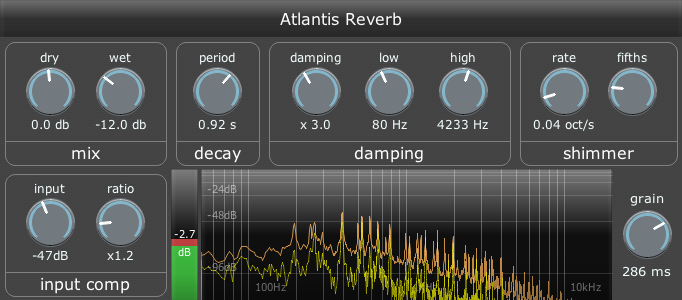
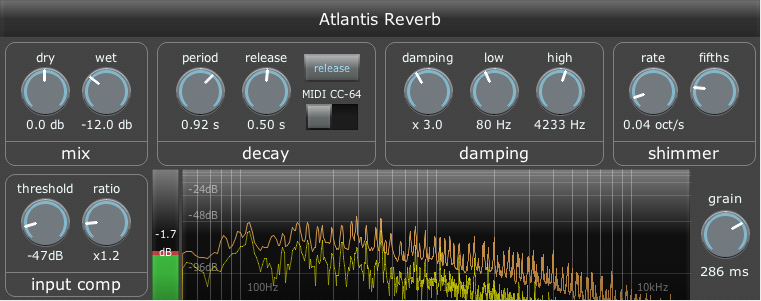
Update docs

diff --git a/index.html b/index.html
@@ -288,6 +288,7 @@ h3 {
 <p><img src="doc/images/Atlantis-Reverb.png" alt="screenshot"></p>
 <p>The &quot;grain&quot; size controls the frequency/time resolution.  Longer grains will give smooth and pure tones, which shorter ones will result in a thicker and more wavering result.</p>
 <p>The &quot;shimmer&quot; control slowly morphs the reverb up by octaves over time, adding a bright and ethereal sound to the reverb.  The &quot;fifths&quot; dial lets you add some octave-and-a-fifth shifts in there as well, which may help the shimmer sound smoother, but may not sound as clean.</p>
+<p>The &quot;release&quot; controls in the decay section allow you to move the current echoes over to a faster-decaying reverb, which can be useful when changing chord.  It can be triggered by mouse, automation, or MIDI controller #64.</p>
 <p>If the quieter bits sound great, but the louder sections sound harsh, the &quot;input comp&quot; section can help you tame the peaks.</p>
 </div>
 <div class="reapack-package reapack-package-with-links" id="Echo-Cycles"><div class="reapack-links"><audio controls preload="none" src="audio-demos/Echo-Cycles.mp3"></audio><a href="https://www.youtube.com/watch?v=BZ-1z7IKYTs&amp;list=PLflIiXZOocKqgKexrkTxxtl6igGUWnpXK" target="_blank">YouTube</a></div><h1 id="echo-cycles">Echo Cycles</h1>

diff --git a/doc/Atlantis-Reverb.md b/doc/Atlantis-Reverb.md
@@ -8,4 +8,6 @@ The "grain" size controls the frequency/time resolution.  Longer grains will giv
 
 The "shimmer" control slowly morphs the reverb up by octaves over time, adding a bright and ethereal sound to the reverb.  The "fifths" dial lets you add some octave-and-a-fifth shifts in there as well, which may help the shimmer sound smoother, but may not sound as clean.
 
+The "release" controls in the decay section allow you to move the current echoes over to a faster-decaying reverb, which can be useful when changing chord.  It can be triggered by mouse, automation, or MIDI controller #64.
+
 If the quieter bits sound great, but the louder sections sound harsh, the "input comp" section can help you tame the peaks.
